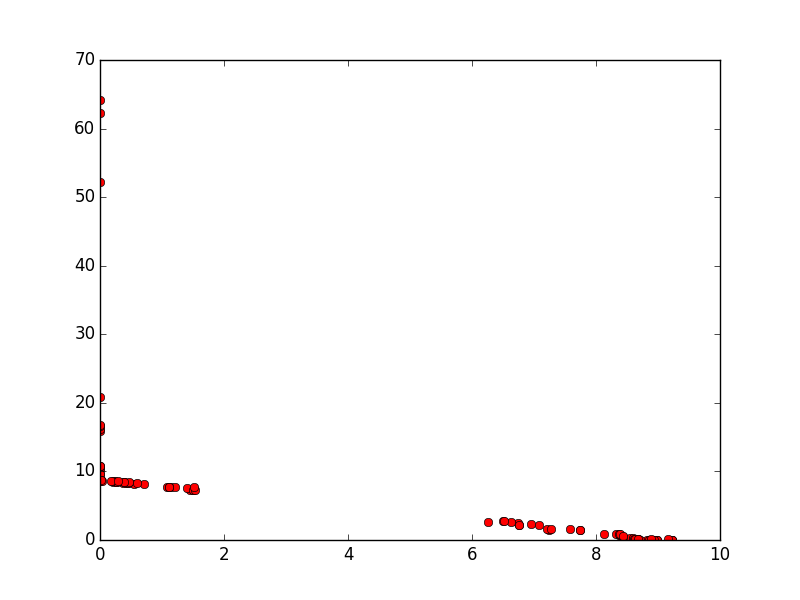
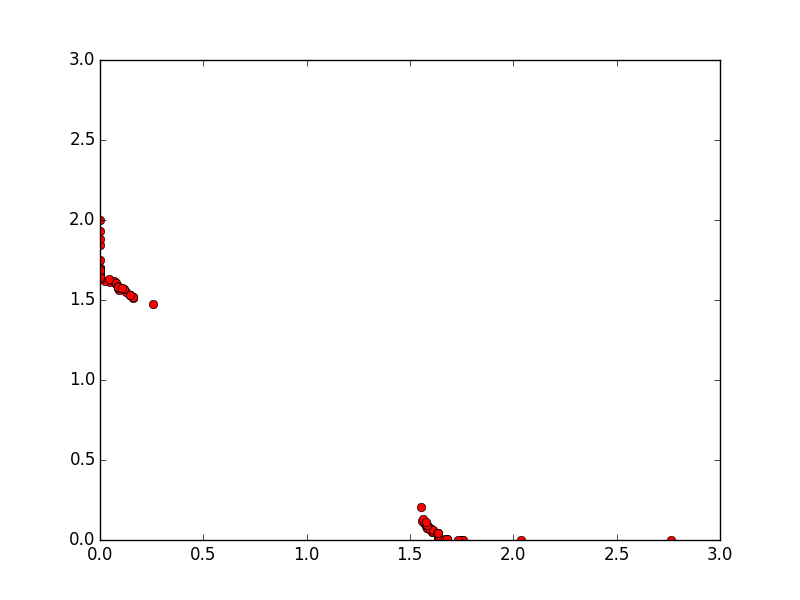
Made some changes to polynomial mutation and binary crossover

diff --git a/utils/tools.py b/utils/tools.py
@@ -10,9 +10,10 @@ PM_ETA = 20
 
 def get_betaq(rand, alpha, eta=30):
   if rand <= (1.0/alpha):
-      return (rand * alpha) ** (1.0/(eta+1.0))
+    return (rand * alpha) ** (1.0/(eta+1.0))
+    #return (1.0/(2.0 - rand*alpha)) ** (1.0/(eta+1.0))
   else:
-      return (1.0/(2.0 - rand*alpha)) ** (1.0/(eta+1.0))
+    return (1.0/(2.0 - rand*alpha)) ** (1.0/(eta+1.0))
 
 def sbx(problem, mom, dad, **params):
   """
@@ -23,39 +24,45 @@ def sbx(problem, mom, dad, **params):
   """
   cr = params.get("cr", SBX_CR)
   eta = params.get("eta", SBX_ETA)
-  sis = [0]*len(mom)
-  bro = [0]*len(mom)
+  sis = mom[:]
+  bro = dad[:]
   if random.random() > cr: return mom, dad
   for i, decision in enumerate(problem.decisions):
     if random.random() > 0.5:
-      sis[i] = mom[i]
-      bro[i] = dad[i]
+      sis[i], bro[i] = bro[i], sis[i]
       continue
-
     if abs(mom[i] - dad[i]) <= EPS:
-      sis[i] = mom[i]
-      bro[i] = dad[i]
       continue
-
+    one = sis[i]
+    two = bro[i]
     low = problem.decisions[i].low
     up = problem.decisions[i].high
-    small = min(mom[i], dad[i])
-    large = max(mom[i], dad[i])
+    small = min(one, two)
+    large = max(one, two)
     some = random.random()
 
     #sis
     beta = 1.0 + (2.0 * (small - low)/(large - small))
-    alpha = 2.0 - beta ** (-(eta+1.0))
-    betaq = get_betaq(some, alpha, eta)
+    alpha = 2.0 - 1 / beta**(eta+1.0)
+    if some <= (1.0/alpha):
+      betaq = (some * alpha) ** (1.0/(eta+1.0))
+    else:
+      betaq = (1.0/(2.0 - some*alpha)) ** (1.0/(eta+1.0))
     sis[i] = 0.5 * ((small+large) - betaq * (large - small))
     sis[i] = max(low, min(sis[i], up))
 
     #bro
     beta = 1.0 + (2.0 * (up - large)/(large - small))
-    alpha = 2.0 - beta ** (-(eta+1.0))
-    betaq = get_betaq(some, alpha, eta)
+    alpha = 2.0 - 1 / beta**(eta+1.0)
+    if some <= (1.0/alpha):
+      betaq = (1.0/(2.0 - some*alpha)) ** (1.0/(eta+1.0))
+      #betaq = (some * alpha) ** (1.0/(eta+1.0))
+    else:
+      betaq = (1.0/(2.0 - some*alpha)) ** (1.0/(eta+1.0))
     bro[i] = 0.5 * ((small+large) + betaq * (large - small))
     bro[i] = max(low, min(bro[i], up))
+    if random.random() > 0.5:
+      sis[i], bro[i] = bro[i], sis[i]
   return sis, bro
 
 def poly_mutate(problem, one, **params):

diff --git a/problems/problem.py b/problems/problem.py
@@ -212,4 +212,6 @@ class Problem(O):
     if constraints:
       for row in constraints:
         plt.plot(row[0], row[1])
+    plt.xlim(0, 3)
+    plt.ylim(0, 3)
     plt.savefig(file_path)
